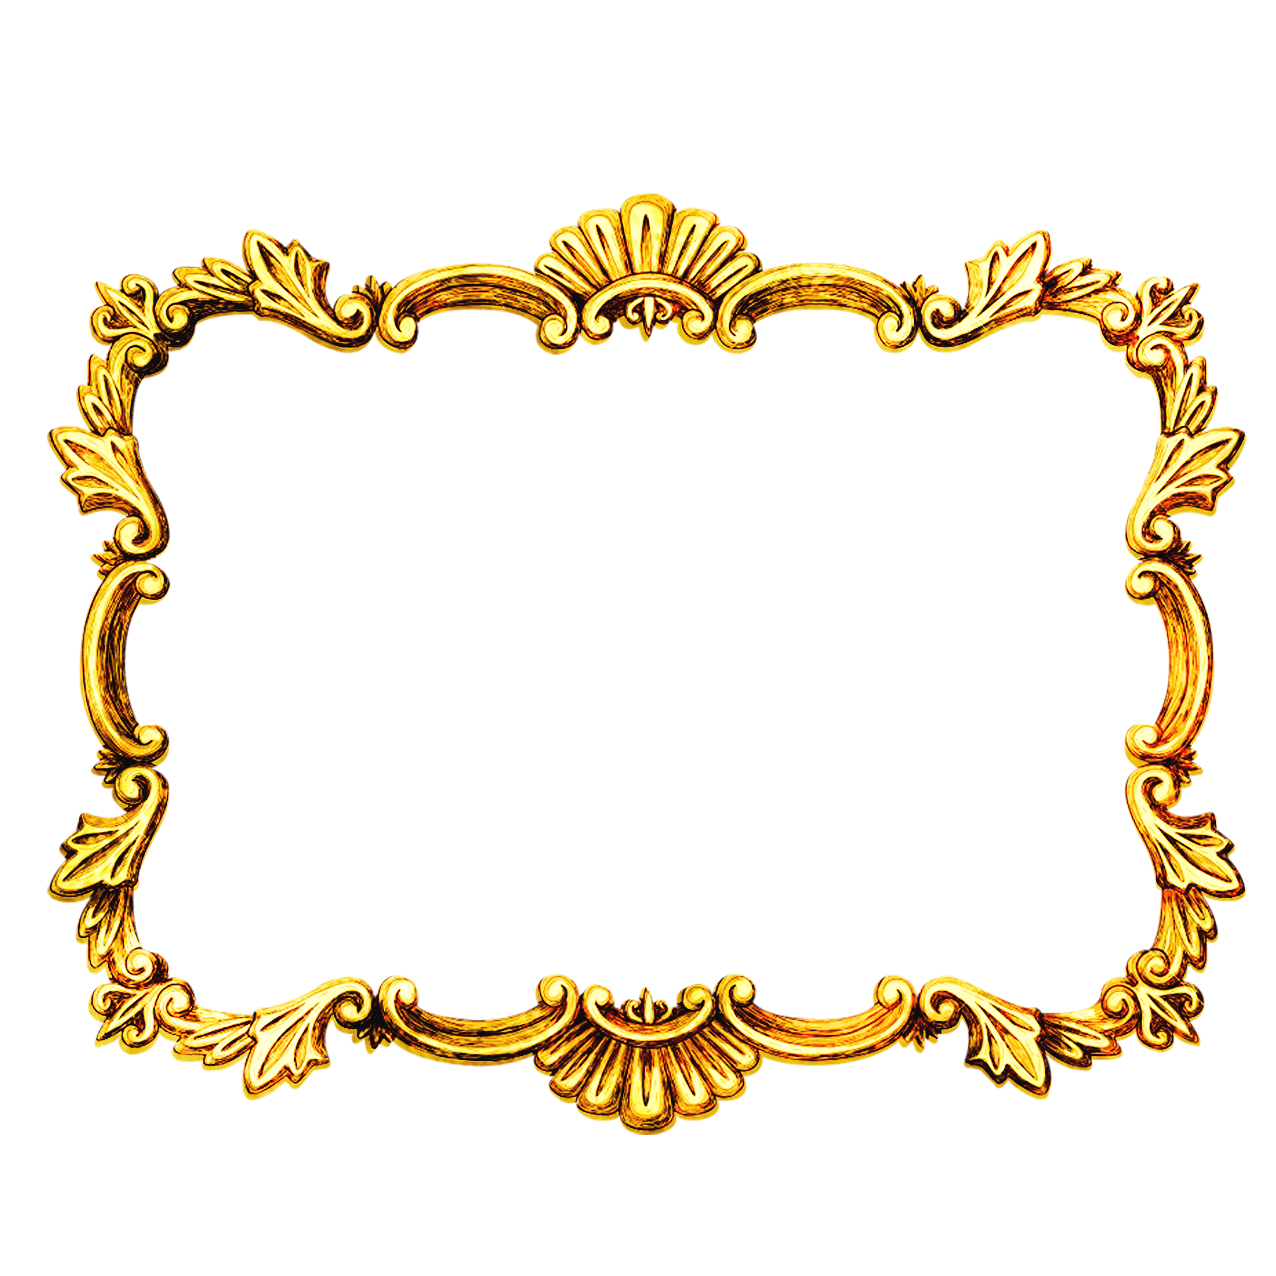
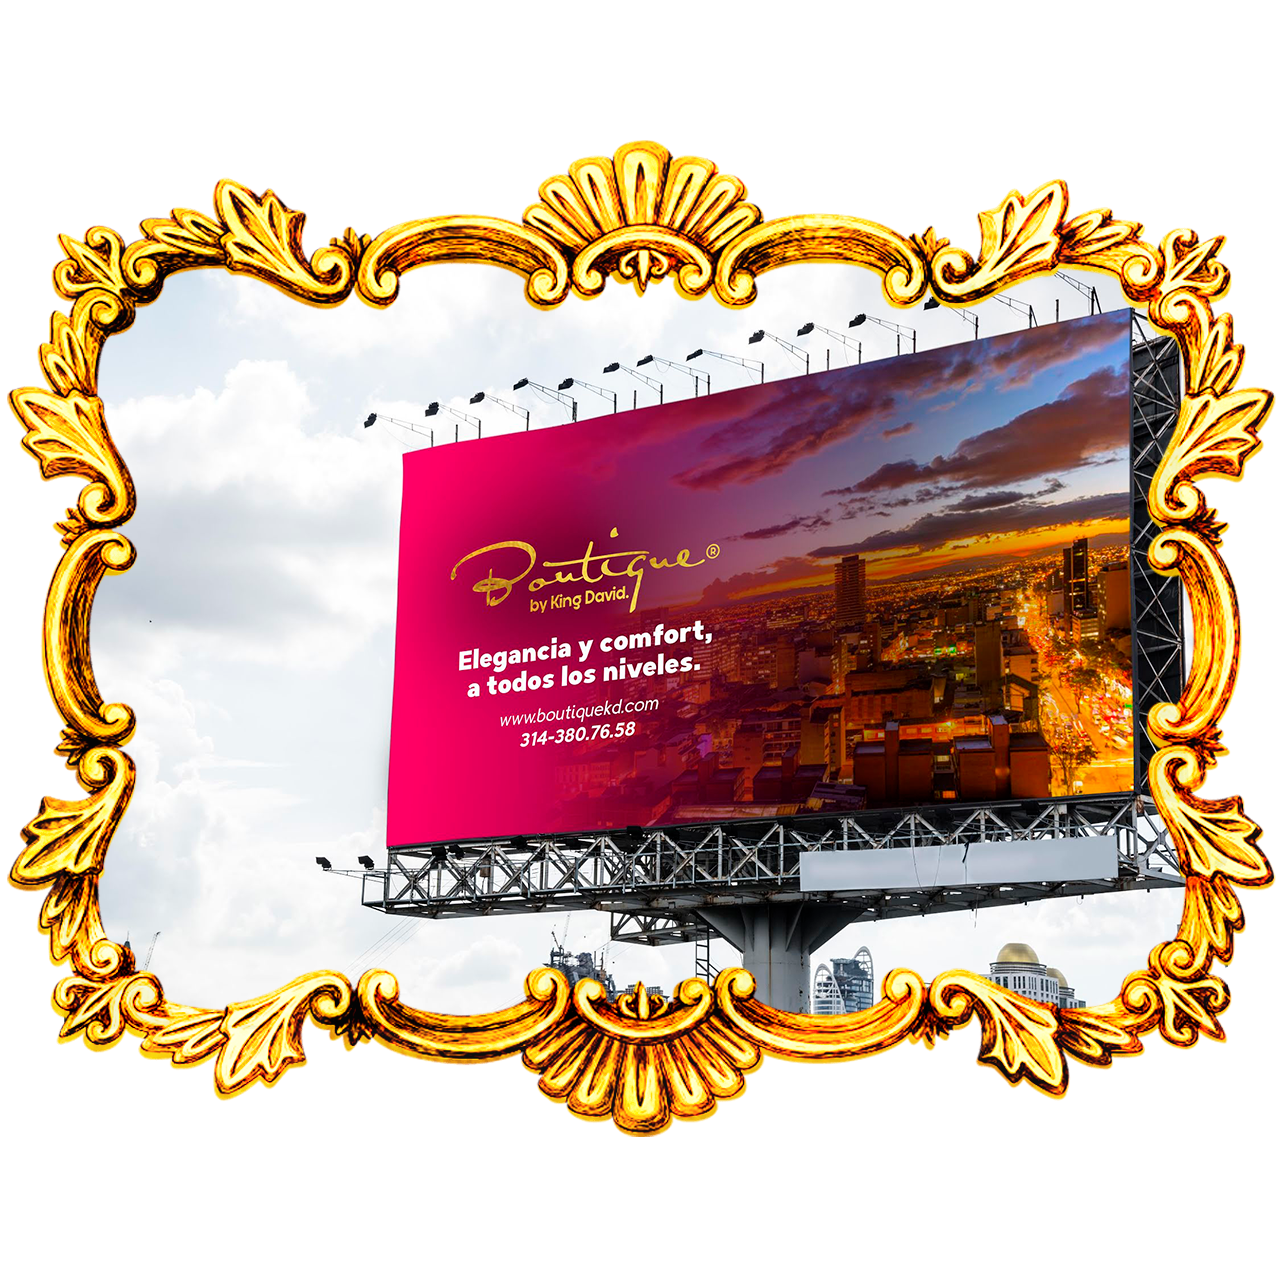
change frame

diff --git a/index.html b/index.html
@@ -264,6 +264,15 @@
 				</div>
 			</section>
 
+			<section class="btq-section wapper">
+				<div class="container">
+						<p> Lorem ipsum dolor sit amet consectetur adipisicing elit. Cumque dolores atque exercitationem error esse aliquam dolore, odio itaque tempora harum natus maxime fuga incidunt deleniti, neque soluta aut nihil dolor.
+							</p>
+				</div>
+				
+
+			</section>
+
 			<footer class="btq-footer btq-bg-dark btq-section">
 				<div class="container">
 					<div class="row mb-5 justify-content-center">

diff --git a/assets/css/style.css b/assets/css/style.css
@@ -11476,3 +11476,14 @@ textarea.form-control {
 	-webkit-transition-duration: 0.35s;
 	transition-duration: 0.35s;
 }
+
+.wapper{
+  background-image: url('../images/wapper.png');
+  background-color: rgba(175, 175, 175, 0.644);
+  background-repeat: no-repeat;
+  background-position: left;
+  background-size: cover;
+  color: #212121;
+  height: 500px;
+
+}
